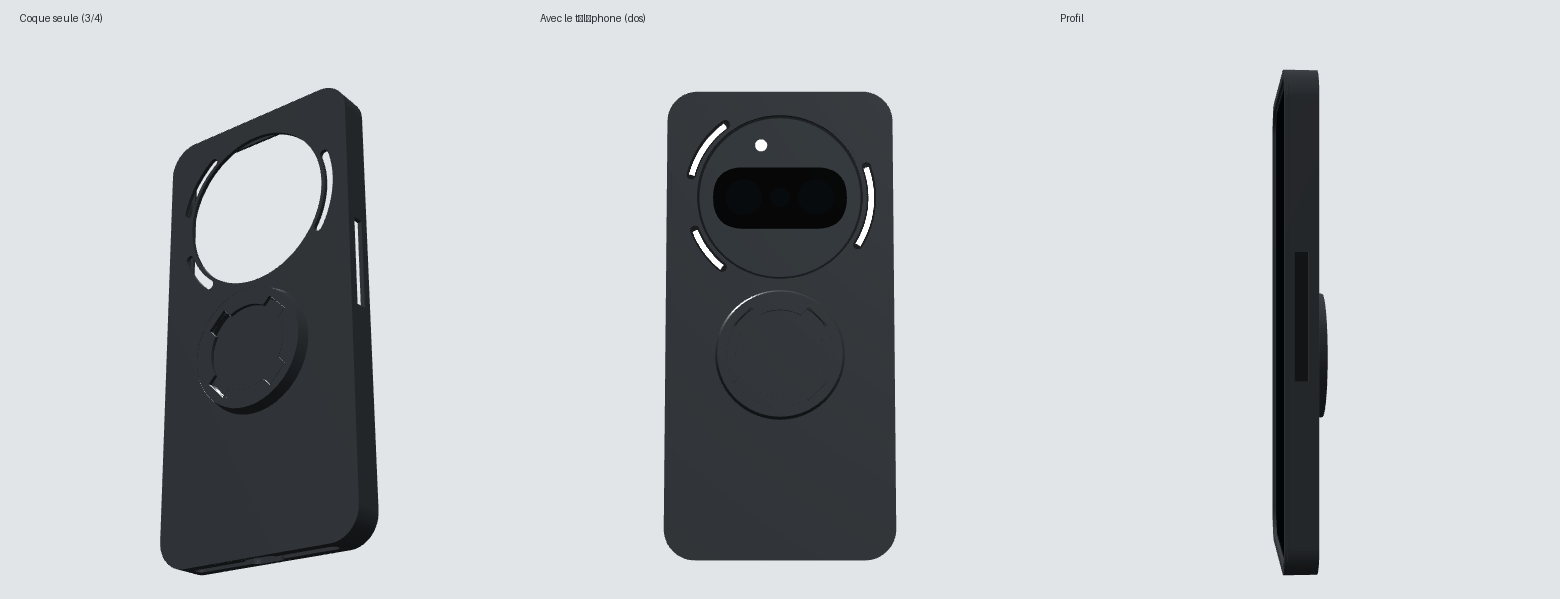
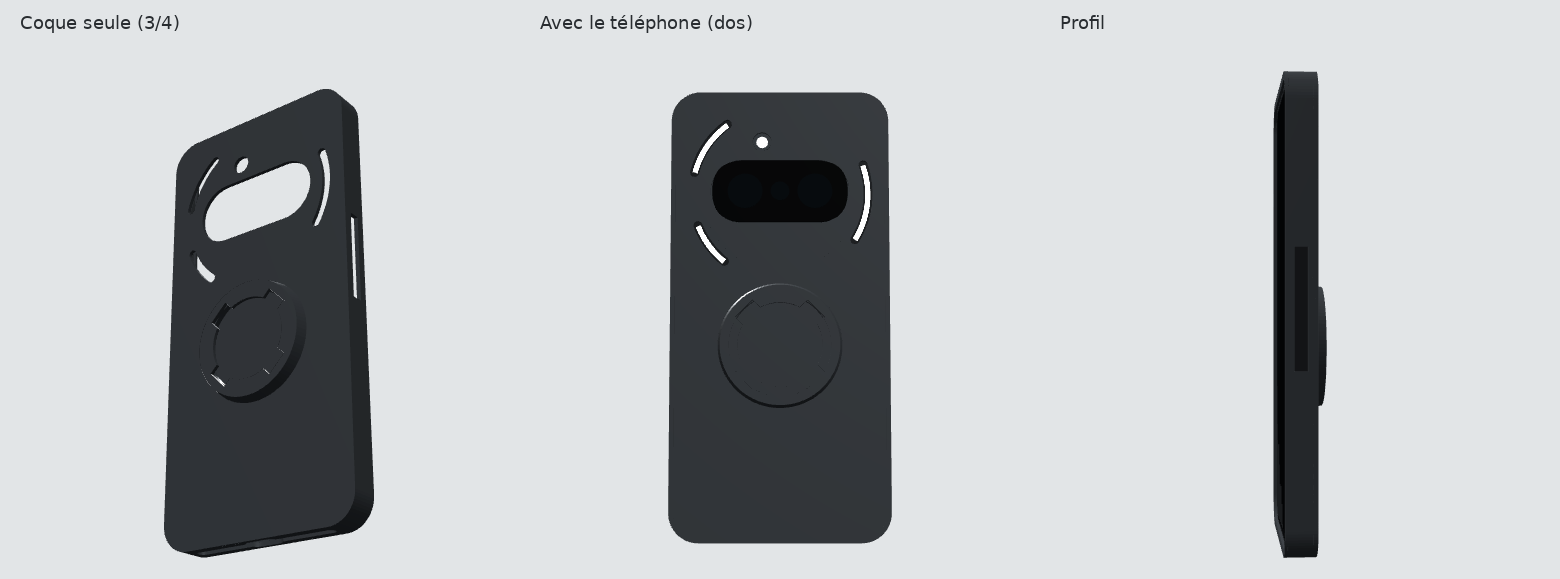
Coque Nothing Phone (3a) : découpe au contour du bloc caméra et trou de flash
Remplace la grande ouverture ronde par une découpe qui épouse le bloc
caméra noir et un trou séparé pour le flash.

Claude-Session: https://claude.ai/code/session_01EVBSjhz1Qo9FQ585vn31b9

diff --git a/coque-nothing-phone-3a/build_stl.py b/coque-nothing-phone-3a/build_stl.py
@@ -7,7 +7,8 @@ from manifold3d import CrossSection, Manifold, JoinType, OpType
 
 phone_w, phone_l, phone_t, phone_r = 77.50, 163.52, 8.35, 9  # officiel Nothing
 clearance, wall, back, lip, lip_h = 0.3, 1.6, 1.6, 1.2, 1.0
-cam_d, cam_from_top = 59.6, 36.6
+cam_w, cam_h, cam_from_top = 51.8, 23.8, 35.9
+flash_d, flash_x, flash_from_top, disk_from_top = 7.0, 6.7, 17.0, 36.6
 right_from, right_to, left_from, left_to, btn_h = 59, 101, 53, 86, 4.5
 glyph_open, glyph_r, glyph_band, glyph_arcs = True, 32.9, 3.4, [(14, 53), (161, 212), (309, 338)]
 quadlock, ql_from_bottom, ql_od, ql_hgt, ql_bore = True, 70, 44, 4.5, 31
@@ -72,10 +73,11 @@ if quadlock:
 cuts = [
     rrect(W, L, phone_r + clearance, phone_t + clearance + eps).translate([0, L / 2, 0]),
     rrect(W - 2 * lip, L - 2 * lip, phone_r - lip, H).translate([0, L / 2, phone_t]),
-    Manifold.cylinder(back + 2 * eps, cam_d / 2, cam_d / 2, 128).translate([0, L - clearance - cam_from_top, -back - eps]),
+    stadium(cam_w, cam_h, back + 2 * eps).translate([0, L - clearance - cam_from_top, -back - eps]),
+    Manifold.cylinder(back + 2 * eps, flash_d / 2, flash_d / 2, 48).translate([flash_x, L - clearance - flash_from_top, -back - eps]),
 ]
 if glyph_open:
-    cuts.append(glyph_cut().translate([0, L - clearance - cam_from_top, -back - eps]))
+    cuts.append(glyph_cut().translate([0, L - clearance - disk_from_top, -back - eps]))
 if quadlock:
     cuts.append(quadlock_cut().translate(QL))
 zc = phone_t / 2

diff --git a/coque-nothing-phone-3a/README.md b/coque-nothing-phone-3a/README.md
@@ -17,12 +17,13 @@ quart de tour compatible Quad Lock imprimée directement dans le dos.
 - Coque : 167,3 × 81,3 mm, 11,3 mm d'épaisseur (15,8 mm au niveau de la fixation)
 - Bords 1,6 mm, dos 1,6 mm, jeu 0,3 mm, rebord d'écran 1,2 mm
 - Positions calées sur la photo officielle du dos (voir `verification_photo.png`) :
-  - **Caméra** : ouverture ronde Ø 59,6 mm (tout le disque, flash compris), centre à 36,6 mm du haut
-  - **Glyph** : 3 fentes en arc de 3,4 mm sur un rayon de 32,9 mm (haut-gauche, droite,
+  - **Caméra** : ouverture qui épouse le bloc caméra noir (51,8 × 23,8 mm), centre à 35,9 mm du haut
+  - **Flash** : trou Ø 7 mm, à 17 mm du haut et 6,7 mm à gauche du centre (vu de dos)
+  - **Glyph** : 3 fentes en arc de 3,4 mm sur un rayon de 32,9 mm autour du disque (haut-gauche, droite,
     bas-gauche vu de dos). Options `glyph_open`, `glyph_r`, `glyph_band`, `glyph_arcs`.
   - **Boutons** : Power + Essential Key à 59–101 mm du haut (droite), volume à 53–86 mm (gauche)
 - USB-C + haut-parleur/micros (bas)
-- **Fixation Quad Lock** : plot Ø 44 mm × 4,5 mm centré à 70 mm du bas (sous le disque caméra). On présente le
+- **Fixation Quad Lock** : plot Ø 44 mm × 4,5 mm centré à 70 mm du bas (sous la zone caméra). On présente le
   téléphone à 45°, on appuie, on tourne d'un quart de tour : les 4 ergots du support
   passent sous le rebord. Options `quadlock`, `ql_*`.
 
